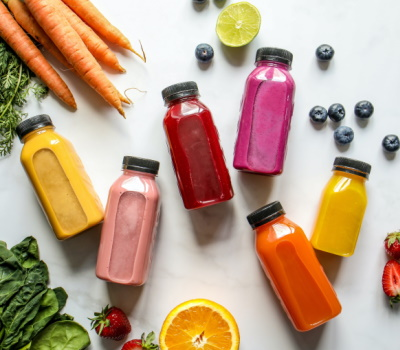
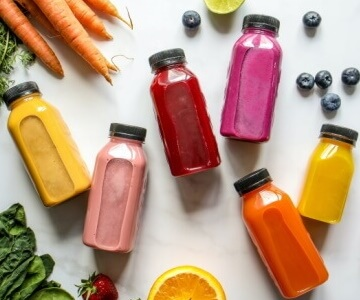
added w + h to images, lazy load

diff --git a/bountiful/index.html b/bountiful/index.html
@@ -60,9 +60,24 @@
     <main>
       <section class="hero">
         <picture class="hero-img">
-          <source srcset="images/fruits-lg.jpg" media="(min-width: 1100px)" />
-          <source srcset="images/fruits-med.jpg" media="(min-width: 800px)" />
-          <img src="images/fruits-small.jpg" alt="Photo of various fruits" />
+          <source
+            srcset="images/fruits-lg.jpg"
+            media="(min-width: 1100px)"
+            width="935"
+            height="450"
+            loading="lazy"/>
+          <source
+            srcset="images/fruits-med.jpg"
+            media="(min-width: 800px)"
+            width="800"
+            height="375"
+            loading="lazy" />
+          <img
+            src="images/fruits-small.jpg"
+            alt="Photo of various fruits"
+            width="360"
+            height="300"
+            loading="lazy" />
         </picture>
         <h1>Bountiful Foods</h1>
 
@@ -70,13 +85,22 @@
       </section>
       <section class="home-grid">
         <div class="information-card">
-          <img src="images/smoothies.jpg" alt="Hand holding a smoothie" />
+          <picture>
+            <source
+              srcset="images/smoothies-lg.jpg"
+              media="(min-width:1100px)"
+              width="550"
+              height="675"
+              loading="lazy" />
+            <img
+              src="images/smoothies.jpg"
+              alt="Hand holding a smoothie"
+              width="450"
+              height="690"
+              loading="lazy" />
+          </picture>
 
-          <h2 id="drinks-num"></h2>
-
-          <!-- <div class="make-drink2">
-            <a href="fresh.html" target="blank">Make a Drink!</a>
-          </div> -->
+          <h2 id="drinks-num">Amount ordered goes here</h2>
 
           <a href="fresh.html" target="blank" class="make-drink2"
             >Make a Drink!</a

diff --git a/bountiful/aboutus.html b/bountiful/aboutus.html
@@ -60,9 +60,18 @@
     <main>
       <section class="hero">
         <picture class="hero-img">
-          <source srcset="images/orchard-lg.jpg" media="(min-width: 1100px)" />
-          <source srcset="images/orchard-med.jpg" media="(min-width: 800px)" />
-          <img src="images/orchard-small.jpg" alt="Photo of orange orchard" />
+          <source srcset="images/orchard-lg.jpg" media="(min-width: 1100px)"
+          width="935"
+          height="450"
+          loading="lazy" />
+          <source srcset="images/orchard-med.jpg" media="(min-width: 800px)" 
+          width="800"
+          height="375"
+          loading="lazy"/>
+          <img src="images/orchard-small.jpg" alt="Photo of orange orchard" 
+          width="360"
+          height="300"
+          loading="lazy"/>
         </picture>
         <h1>About Us</h1>
       </section>
@@ -98,10 +107,12 @@
         </div>
 
         <!-- google map -->
-        <div class="google-map">
+        <div class="google-map" aria-label ="Google map of location to Bountiful foods">
         <a href="https://goo.gl/maps/o1bpsbc1wqUHsYtV6" target="_blank" >
           <div class="map-img"> 
             <!-- img added as background in css -->
+            <h2>Visit us</h2>
+            <p>Click anywhere in the image to go to Google Maps.</p>
           </div>
         </a>
         </div>

diff --git a/bountiful/fresh.html b/bountiful/fresh.html
@@ -60,9 +60,24 @@
     <main>
       <section class="hero">
         <picture class="hero-img">
-          <source srcset="images/drinks-lg.jpg" media="(min-width: 1100px)" />
-          <source srcset="images/drinks-med.jpg" media="(min-width: 800px)" />
-          <img src="images/drinks-small.jpg" alt="Photo of smoothies" />
+          <source
+            srcset="images/drinks-lg.jpg"
+            media="(min-width: 1100px)"
+            width="935"
+            height="450"
+            loading="lazy" />
+          <source
+            srcset="images/drinks-med.jpg"
+            media="(min-width: 800px)"
+            width="800"
+            height="375"
+            loading="lazy" />
+          <img
+            src="images/drinks-small.jpg"
+            alt="Photo of smoothies"
+            width="360"
+            height="300"
+            loading="lazy" />
         </picture>
         <h1>Make a fresh drink</h1>
       </section>
@@ -140,8 +155,9 @@
         </form>
         <h2>Your order and nutrition info:</h2>
         <div id="order-info">
-          <p class="order-placeholder">Your information will appear here when you complete the form. </>
-
+          <p class="order-placeholder">
+            Your information will appear here when you complete the form.
+          </p>
         </div>
       </section>
     </main>

diff --git a/bountiful/styles/base.css b/bountiful/styles/base.css
@@ -218,7 +218,16 @@ nav ul.open {
   background-size: cover;
   background-position: center;
   background-repeat: no-repeat;
+  display: flex;
+  flex-direction: column;
+  justify-content: space-between;
+
 }
+.map-img p{
+  text-align: center;
+  color: black;
+}
+
 
 .aboutus-grid > * {
   margin: 20px 0;
@@ -375,6 +384,12 @@ footer {
 .openweather:visited,
 .resources a:visited {
   color: var(--secondary-color);
+}
+.social{
+  padding: 2em;
+}
+.social >*{
+  padding: 0 1em;
 }
 
 .location a {

diff --git a/bountiful/styles/medium.css b/bountiful/styles/medium.css
@@ -24,7 +24,6 @@
 
   .header-img-div img {
     width: 100%;
-    aspect-ratio: 1/1;
     padding: 0.5em;
   }
 
@@ -66,6 +65,7 @@
     text-align: center;
   }
 
+
   .make-drink2 {
     background-color: var(--accent1-color);
     color: black;
@@ -101,6 +101,10 @@
   .map-img {
     background-image: url("../images/google-med.jpg");
     min-height: 320px;
+  }
+
+  .social{
+    padding: 0;
   }
 
   .footer1 {
